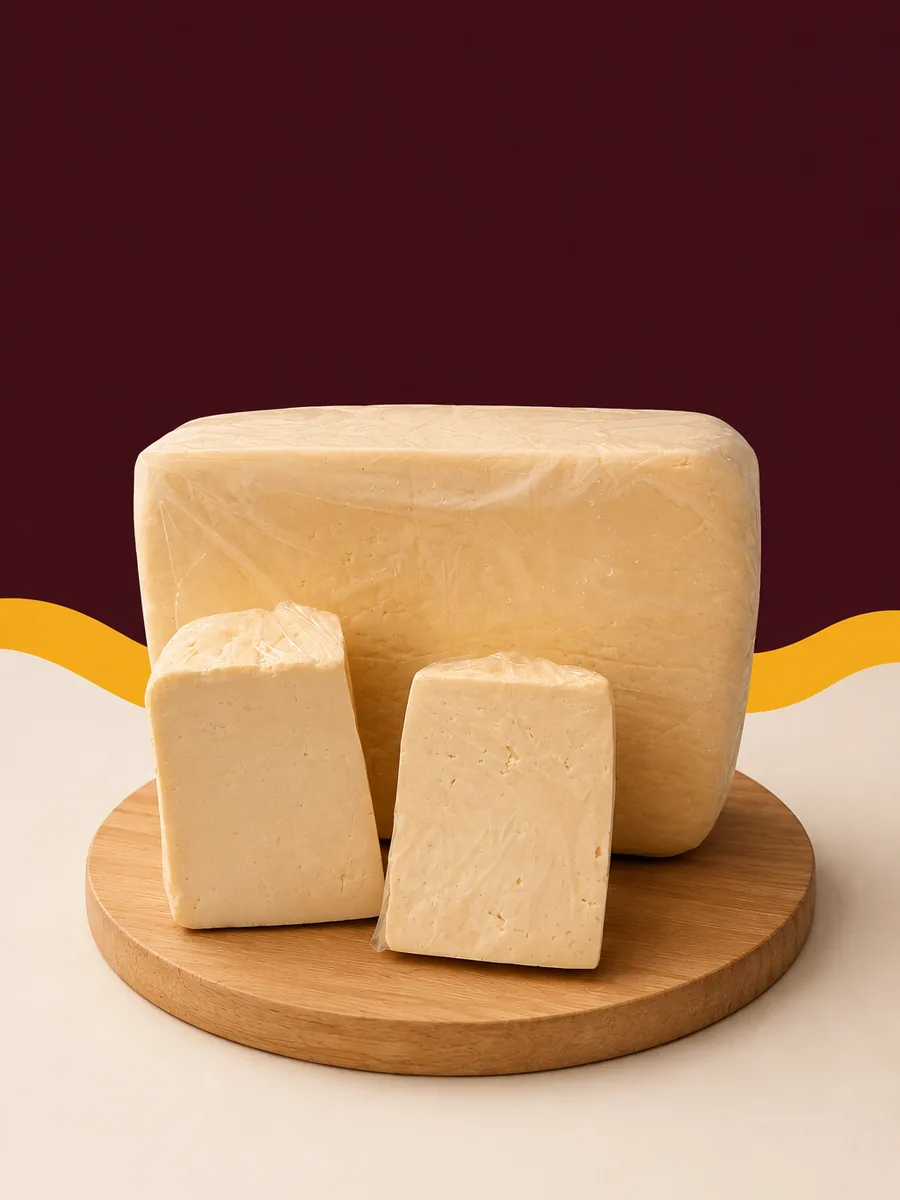
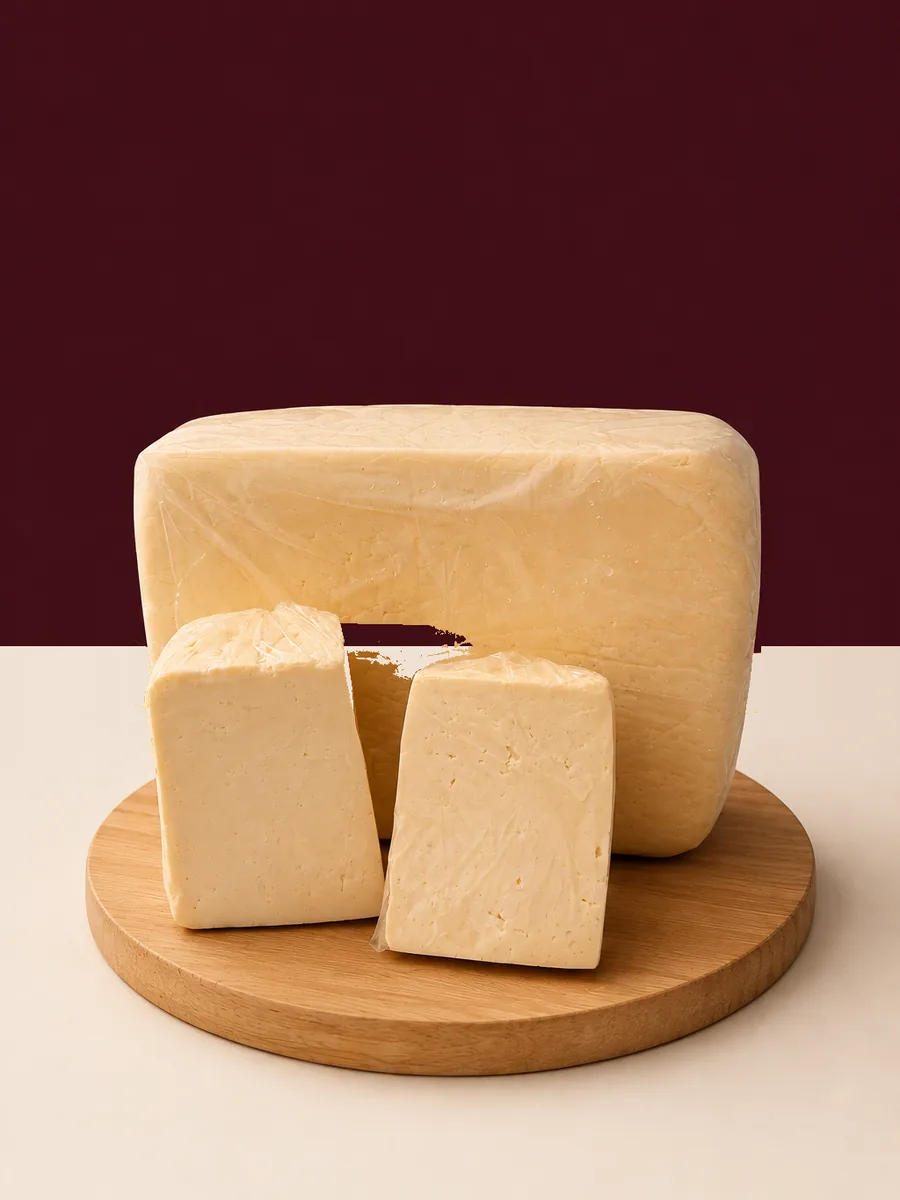
Quitar la onda dorada del fondo de las 21 fotos
La onda venía fotografiada en el set, no puesta por la web, así que había
que editar las imágenes. El fondo de dos tonos se conserva —vino arriba,
crema abajo— pero la unión pasa a ser un horizonte recto. El producto y su
sombra quedan intactos.

El script queda en tools/quitar-onda.py para cuando lleguen fotos nuevas.
Se ancla en lo único fiable de estas tomas: bajando por una columna desde
el borde superior, el vino oscuro no se confunde con ningún producto, así
que la racha se corta justo donde empieza otra cosa. Si lo que hay ahí es
dorado, esa columna enseña la onda y se puede repintar; si es el producto,
la columna se deja quieta, y da igual, porque ahí la unión queda tapada.

Lo que no sirvió está anotado en el script, que para eso se guarda:
separar por color no funciona —el queso blanco y el piso crema son el
mismo color, y el cheddar es del mismo naranja que la onda—, y el relleno
por vecindad se mete en el queso y lo aplasta.

Dos fotos necesitan ajuste propio, en el diccionario AJUSTES: el cheddar,
porque el queso comparte color con la onda, y la costilla, que cuelga
desde arriba y permite repintar la banda entera.

Claude-Session: https://claude.ai/code/session_01Anoy9NXXR7bfqmC8SwF992

Changed region(s): [[0.8089, 0.4933, 1.0, 0.6167], [0.0, 0.4933, 0.1867, 0.5858], [0.3733, 0.4933, 0.5289, 0.5858]]

diff --git a/tools/quitar-onda.py b/tools/quitar-onda.py
@@ -1,0 +1,247 @@
+"""
+Quita la onda dorada del fondo de las fotos de producto de Quesera Chiminangos.
+
+El set es un fondo de dos tonos —vino arriba, crema abajo— con una onda dorada
+en la unión. Aquí esa unión pasa a ser un horizonte recto; el producto y su
+sombra quedan intactos.
+
+Todo se ancla en un solo dato fiable: bajando por una columna desde el borde
+superior, el vino oscuro no se confunde con ningún producto, así que la racha
+se corta exactamente donde empieza otra cosa. Si lo que hay justo ahí es
+dorado, esa columna nos está mostrando la onda y se puede repintar. Si es el
+producto, la columna se deja como está — y da igual, porque ahí la unión
+queda tapada por el producto.
+
+Lo que NO funcionó, por si alguien lo intenta de nuevo:
+  · Separar por color: el queso blanco (233,224,212) y el piso crema
+    (238,222,206) son el mismo color, y el cheddar es del mismo naranja que
+    la onda.
+  · Relleno por vecindad desde los bordes: el degradado del queso es tan
+    suave que el relleno se mete dentro y lo aplasta.
+  · Barrer las filas de lado a lado: entra al queso por el mismo motivo.
+"""
+from PIL import Image
+import numpy as np
+import sys, os
+
+TOL_VINO = 34          # el vino apenas varía (±3); holgado va sobrado
+SUAVE = 16             # salto máximo entre píxeles contiguos del fondo
+BORDE = 5              # píxeles de antialias a saltar al salir de la onda
+
+
+def _oro(p):
+    return p[0] > 180 and 100 < p[1] < 225 and p[2] < 45
+
+
+def quitar_onda(entrada, salida, ventana=None, flecos=True,
+                banda_completa=False, margen_abajo=0, forzar=()):
+    im = Image.open(entrada).convert("RGB")
+    a = np.array(im).astype(np.int16)
+    h, w, _ = a.shape
+
+    vino = np.median(a[:int(h * .05)].reshape(-1, 3), axis=0)
+    crema = np.median(a[int(h * .97):].reshape(-1, 3), axis=0)
+    # El vino no se mide por distancia a una referencia: el fondo lleva un
+    # degradado y abajo es bastante más oscuro que arriba (en la foto de la
+    # costilla, un 40% de las filas bajas se salía de tolerancia). Se mide por
+    # tono, que es lo que de verdad lo distingue: oscuro, rojizo y sin azul.
+    # Un empaque negro (20,20,20) no pasa, y uno rojo (200,30,40) tampoco.
+    R, G, B = a[:, :, 0], a[:, :, 1], a[:, :, 2]
+    es_vino = ((np.abs(a - vino.reshape(1, 1, 3)).max(axis=2) <= TOL_VINO) |
+               ((R > 28) & (R < 120) & (G < 62) & (B < 72) & (R > G + 14)))
+    es_oro = (a[:, :, 0] > 180) & (a[:, :, 1] > 100) & (a[:, :, 1] < 225) & (a[:, :, 2] < 45)
+
+    # El barrido arranca por debajo de cualquier estorbo pegado al borde
+    # superior — en la foto de la costilla, la barra de la que cuelga.
+    limpias = np.nonzero(es_vino[:int(h * .35)].mean(axis=1) >= .80)[0]
+    inicio = int(limpias.max()) if len(limpias) else 0
+
+    # Dónde se corta el vino en cada columna
+    fin_vino = inicio + es_vino[inicio:].astype(np.uint8).cumprod(axis=0).sum(axis=0)
+
+    # Columnas que enseñan la onda: justo donde acaba el vino, empieza el oro
+    columnas = {}
+    for x in range(w):
+        t = int(fin_vino[x])
+        # Se mira 30 px por delante, no 4: en algunas tomas el borde de la onda
+        # es una rampa larga (la costilla pasa de vino a oro en ~40 px) y con
+        # una ventana corta la onda no se encuentra.
+        if t >= h - 2 or not es_oro[t:t + 48, x].any():
+            continue
+        # La racha se mide desde el primer píxel dorado de verdad, no desde
+        # donde acaba el vino: entre los dos puede haber rampa.
+        cerca = np.nonzero(es_oro[t:t + 48, x])[0]
+        g0 = t + int(cerca[0])
+        g = g0
+        while g + 1 < h and (es_oro[g + 1, x] or es_oro[g + 1:g + 4, x].any()):
+            g += 1
+        if g - g0 >= 12:
+            columnas[x] = (t, g)
+
+    if ventana:                                       # acotado a mano si hace falta
+        columnas = {x: (t, g) for x, (t, g) in columnas.items()
+                    if ventana[0] <= t <= ventana[1]}
+
+    if len(columnas) < w * .05:
+        return None                                   # esta foto no trae onda
+
+    # La onda es un trazo continuo: las columnas cuyo tope se sale del grupo
+    # no son la onda sino un producto del mismo color (el cheddar, por caso).
+    ts = np.array([v[0] for v in columnas.values()])
+    med = np.median(ts)
+    mad = np.median(np.abs(ts - med)) or 1
+    limite = max(30, 5 * mad)
+    columnas = {x: v for x, v in columnas.items() if abs(v[0] - med) <= limite}
+    if len(columnas) < w * .05:
+        return None
+
+    topes = np.array([v[0] for v in columnas.values()])
+    bases = np.array([v[1] for v in columnas.values()])
+    W0, W1 = int(topes.min()) - 4, int(bases.max()) + 4 + margen_abajo
+    W0, W1 = max(0, W0), min(h - 1, W1)
+    horizonte = int(np.median((topes + bases) / 2))
+
+    # Tono de cada columna, tomado del fondo justo fuera de la banda
+    franja_v = a[max(0, W0 - 34):max(1, W0 - 4)]
+    franja_c = a[min(h - 1, W1 + 4):min(h, W1 + 34)]
+    tono_vino = np.median(franja_v, axis=0)
+    tono_crema = np.median(franja_c, axis=0)
+
+    # Si en esa columna las filas de muestra caen sobre el producto o sobre la
+    # tabla, el tono sale mal y deja un rectángulo blanco. Cuando se aleja
+    # demasiado del fondo, se usa el tono general de la foto.
+    malo_v = np.abs(tono_vino - vino).max(axis=1) > 45
+    malo_c = np.abs(tono_crema - crema).max(axis=1) > 45
+    tono_vino[malo_v] = vino
+    tono_crema[malo_c] = crema
+
+    # Para frenar la extensión no basta con que el degradado sea suave: el
+    # queso pálido entra sin salto y el relleno se lo come. Se exige además
+    # que el píxel siga siendo del color del fondo por ese lado.
+    es_crema = np.abs(a - crema.reshape(1, 1, 3)).max(axis=2) <= 34
+
+    arr = a.copy()
+    pintadas = 0
+
+    # Rangos de columnas que se sabe que son fondo limpio de arriba abajo.
+    # Se usan donde el borde difuminado de la onda se confunde con el propio
+    # producto y ninguna regla automática lo separa bien.
+    for x0, x1 in forzar:
+        for x in range(max(0, x0), min(w, x1 + 1)):
+            columnas.setdefault(x, (W0, W1))
+
+    for x, (t, g) in columnas.items():
+        # Hacia arriba desde la onda, mientras siga siendo vino y sin saltos
+        y = t - BORDE
+        while y > W0 and es_vino[y, x] and np.abs(a[y, x] - a[y + 1, x]).max() <= SUAVE:
+            y -= 1
+        arriba = max(W0, y)
+        # Y hacia abajo, mientras siga siendo crema y sin saltos
+        y = g + BORDE
+        while y < W1 and es_crema[y, x] and np.abs(a[y, x] - a[y - 1, x]).max() <= SUAVE:
+            y += 1
+        abajo = min(W1, y)
+
+        # banda_completa: cuando una columna enseña la onda es porque no tiene
+        # producto encima — y en fotos como la de la costilla, donde el
+        # producto cuelga desde arriba, tampoco lo tiene debajo. Entonces se
+        # puede repintar la banda entera y llevarse también el borde difuso.
+        if banda_completa:
+            arriba, abajo = W0, W1
+
+        filas = np.arange(arriba, abajo + 1)
+        arr[filas[filas < horizonte], x] = tono_vino[x]
+        arr[filas[filas >= horizonte], x] = tono_crema[x]
+        pintadas += 1
+
+    # Flecos: en las columnas que el barrido no pudo leer —las que tienen
+    # producto por encima— la onda sigue asomando al lado del envase. Como la
+    # onda es un trazo continuo, se interpola desde las columnas que sí se
+    # leyeron y ahí se repinta lo que quede del color de la onda.
+    #
+    # flecos=False es para la foto del cheddar: ese queso es del mismo naranja
+    # que la onda, azul incluido, así que cualquier limpieza automática se lo
+    # come. Ahí se prefiere dejar un resto a romper el producto.
+    xs = np.array(sorted(columnas))
+    tt = np.array([columnas[x][0] for x in xs])
+    gg = np.array([columnas[x][1] for x in xs])
+    todas = np.arange(w)
+    t_interp = np.interp(todas, xs, tt)
+    g_interp = np.interp(todas, xs, gg)
+    filas = np.arange(h).reshape(-1, 1)
+    dentro = (filas >= (t_interp - 24)) & (filas <= (g_interp + 24))
+
+    if flecos:
+        pendientes = np.zeros((h, w), bool)
+        pendientes[:, [x for x in todas if x not in columnas]] = True
+
+        # Se repasa en dos vueltas: primero el dorado limpio, luego los bordes
+        # difuminados, que sólo se tocan si están pegados a lo ya repintado.
+        pintado = np.zeros((h, w), bool)
+        for x in columnas:
+            pintado[W0:W1 + 1, x] = True
+
+        b = np.clip(arr, 0, 255).astype(np.int16)
+        oro_limpio = ((b[:, :, 0] > 180) & (b[:, :, 1] > 100) &
+                      (b[:, :, 1] < 225) & (b[:, :, 2] < 45))
+        objetivo = oro_limpio & dentro & pendientes
+        yy, xx = np.nonzero(objetivo)
+        if len(yy):
+            arr[yy, xx] = np.where((yy < horizonte)[:, None], tono_vino[xx], tono_crema[xx])
+            pintado[yy, xx] = True
+
+        # El borde difuminado de la onda: mezcla de oro con crema, así que el
+        # azul sube. Se acepta hasta 95 —la madera de las tablas anda por 70,
+        # pero no es contigua a la onda, y aquí sólo se crece desde ella.
+        for _ in range(70):
+            b = np.clip(arr, 0, 255).astype(np.int16)
+            difuso = ((b[:, :, 0] > 175) & (b[:, :, 1] > 95) &
+                      (b[:, :, 1] < 235) & (b[:, :, 2] < 95))
+            vecino = np.zeros((h, w), bool)
+            vecino[:, 1:] |= pintado[:, :-1]
+            vecino[:, :-1] |= pintado[:, 1:]
+            vecino[1:] |= pintado[:-1]
+            vecino[:-1] |= pintado[1:]
+            objetivo = difuso & dentro & vecino & ~pintado
+            if not objetivo.any():
+                break
+            yy, xx = np.nonzero(objetivo)
+            arr[yy, xx] = np.where((yy < horizonte)[:, None], tono_vino[xx], tono_crema[xx])
+            pintado[yy, xx] = True
+
+    res = np.clip(arr, 0, 255).astype(np.uint8)
+    Image.fromarray(res).save(salida)
+
+    b = res.astype(np.int16)
+    queda = ((b[:, :, 0] > 180) & (b[:, :, 1] > 100) & (b[:, :, 1] < 225) & (b[:, :, 2] < 45))
+    cerca_onda = queda & dentro
+    return {"banda": (W0, W1), "horizonte": horizonte, "columnas": len(columnas),
+            "oro_sobre_la_onda": int(cerca_onda.sum())}
+
+
+# Ajustes por foto, para los casos donde el producto y la onda comparten
+# color y ninguna regla automática los separa bien.
+AJUSTES = {
+    # El cheddar es del mismo naranja que la onda, azul incluido: se acota
+    # dónde puede estar la onda y se desactiva la limpieza de flecos, porque
+    # se comería el queso.
+    "Queso cheddar .png":    dict(ventana=(740, 880), flecos=False),
+    # La costilla cuelga desde arriba: si una columna enseña la onda, esa
+    # columna no tiene producto ni arriba ni abajo, así que se puede repintar
+    # la banda entera y llevarse también el borde difuso de la onda.
+    "Costilla ahumada .png": dict(banda_completa=True, margen_abajo=70),
+}
+
+
+if __name__ == "__main__":
+    import glob
+    if len(sys.argv) != 3:
+        print("uso: quitar-onda.py <carpeta-origen> <carpeta-destino>")
+        raise SystemExit(1)
+
+    origen, destino = sys.argv[1], sys.argv[2]
+    os.makedirs(destino, exist_ok=True)
+    for f in sorted(glob.glob(os.path.join(origen, "*.png"))):
+        n = os.path.basename(f)
+        r = quitar_onda(f, os.path.join(destino, n), **AJUSTES.get(n, {}))
+        print(f"{n[:34]:36} {'sin onda que quitar' if r is None else r}")

diff --git a/quesera/README.md b/quesera/README.md
@@ -11,7 +11,7 @@ estilos.css             paleta y estilos
 app.js                  filtros, pedido y enlaces de WhatsApp
 datos.js                TODO el contenido editable
 imagenes/logo.*         el logotipo
-imagenes/productos/     las fotos de producto
+imagenes/productos/     las fotos de producto, ya sin la onda del set
 ```
 
 ## De dónde salen los datos
@@ -52,12 +52,25 @@ pregunta por WhatsApp. Faltan sobre todo los quesos (¿libra, kilo, bloque?), la
 la panadería, los panes, los condimentos y los lácteos.
 
 **Fotos nuevas** — van en `imagenes/productos/`, y la ruta se pone en el campo `imagen`.
-Conviene pasarlas a `.webp` recortadas en 3:4 y por debajo de unos 150 KB:
+
+Las fotos del set vienen con una onda dorada de fondo. En la web no se usa, así que antes
+de montarlas hay que quitarla:
 
 ```bash
-python3 - <<'PY'
+python3 tools/quitar-onda.py carpeta-con-las-fotos carpeta-limpia
+```
+
+Deja el fondo con un horizonte recto y no toca el producto ni su sombra. Si llega una foto
+donde el producto es del color de la onda —le pasa al cheddar—, se le añade una entrada al
+diccionario `AJUSTES` del propio script, que documenta los casos ya resueltos.
+
+Después se recortan a 3:4 y se pasan a `.webp`, que las deja por debajo de 150 KB. El
+recorte va desplazado hacia arriba (0.62) porque el producto vive en la mitad baja del
+encuadre:
+
+```python
 from PIL import Image
-im = Image.open("foto.png").convert("RGB")
+im = Image.open("foto-limpia.png").convert("RGB")
 w, h = im.size
 alto = int(w / 0.75)
 if alto < h:
@@ -65,11 +78,10 @@ if alto < h:
     im = im.crop((0, arriba, w, arriba + alto))
 im.thumbnail((900, 1200), Image.LANCZOS)
 im.save("quesera/imagenes/productos/nombre.webp", "WEBP", quality=82, method=6)
-PY
 ```
 
-Los productos sin foto no quedan feos: muestran el icono de su categoría sobre la onda
-dorada de la marca, con el mismo formato de las fotos.
+Los productos sin foto no quedan feos: muestran el icono de su categoría sobre un fondo
+crema, en el mismo formato 3:4 de las fotos.
 
 ## Cómo agregar o cambiar productos
 
@@ -111,9 +123,10 @@ tarjeta tiene además **Pedir**, que escribe sólo por ese producto.
 
 ## Decisiones de diseño
 
-La paleta sale del logotipo y de las fotos: vino `#45181F`, dorado `#F5B921` y crema. La
-onda dorada que traen las fotografías se repite en la portada y en las tarjetas sin foto,
-que es lo que amarra el conjunto.
+La paleta sale del logotipo y de las fotos: vino `#45181F`, dorado `#F5B921` y crema. El
+dorado quedó para acentos —el botón de mayoristas, los antetítulos—; la onda dorada que
+traían las fotografías se quitó a petición del cliente, y los cortes entre secciones son
+rectos.
 
 De los referentes del brief: de **Cassini** el minimalismo, la fotografía limpia y los
 textos cortos; de **Bonanza** la organización por categorías con contadores y el aire de
